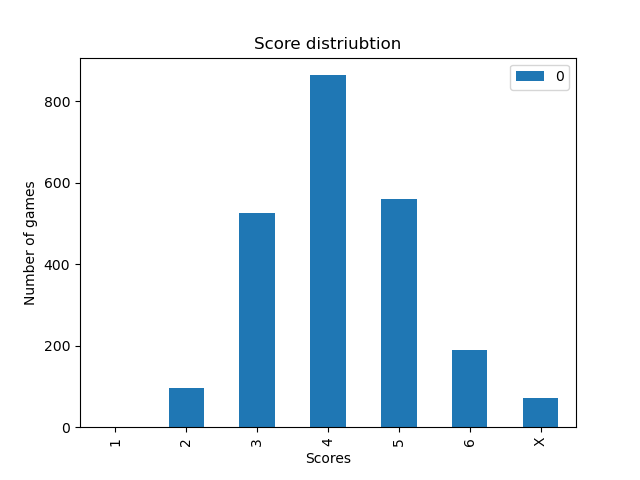
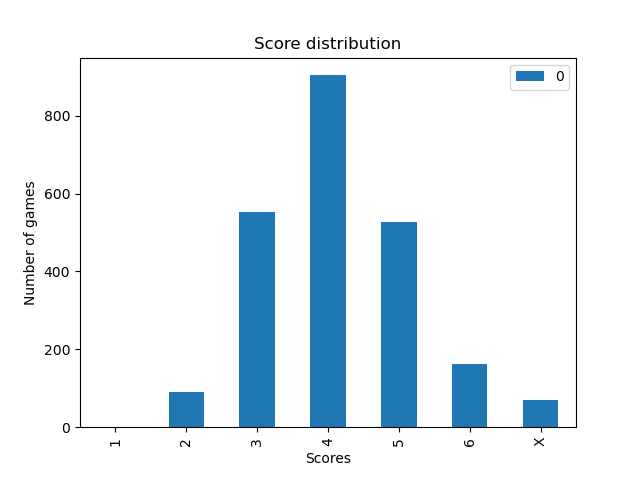
Update graphs

diff --git a/analysis.py b/analysis.py
@@ -5,7 +5,7 @@ from collections import Counter
 
 import pandas as pd
 
-with open(os.path.join('datasets', 'filtered', 'simulation_results_scaled_tf_extended.json'), "r") as file:
+with open(os.path.join('datasets', 'filtered', 'simulation_results_scaled_tf.json'), "r") as file:
     simulation_results = json.load(file)
 
 results = simulation_results["games"]
@@ -17,7 +17,7 @@ for result in results:
 count = Counter(scores)
 df = pd.DataFrame.from_dict(count, orient='index').sort_index(axis = 0)
 print(df)
-df.plot(kind='bar')
+df.plot(xlabel='Scores', ylabel='Number of games', title='Score distribution', kind='bar')
 plt.show()
 
 # print(df)

diff --git a/README.md b/README.md
@@ -24,7 +24,7 @@ A regular test run means the result was considered a failure if the bot could no
 |   X   |     70     |
 
 ## Extended
-Just to see how the bot performed, it was allowed to continue playing beyond 6 tries till it found a solution.
+Just to see how the bot performed, it was allowed to continue playing beyond 6 tries till it found a solution. Overall the solver never takes more than 9 attempts to solve a wordle.
 
 | Score | # of games |
 |:-----:|:----------:|
